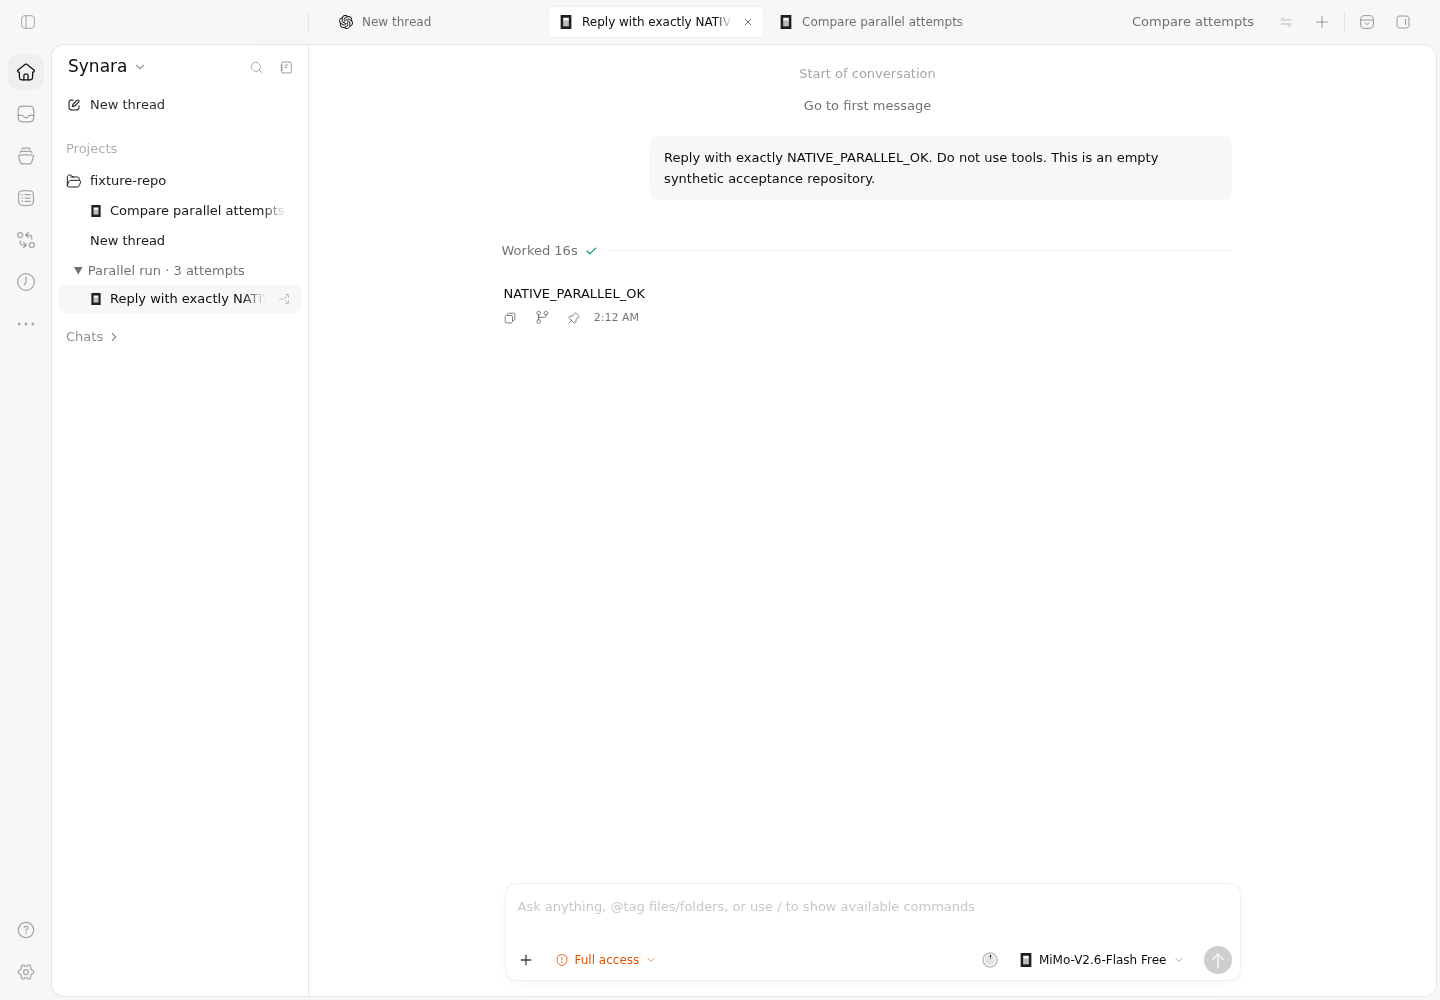
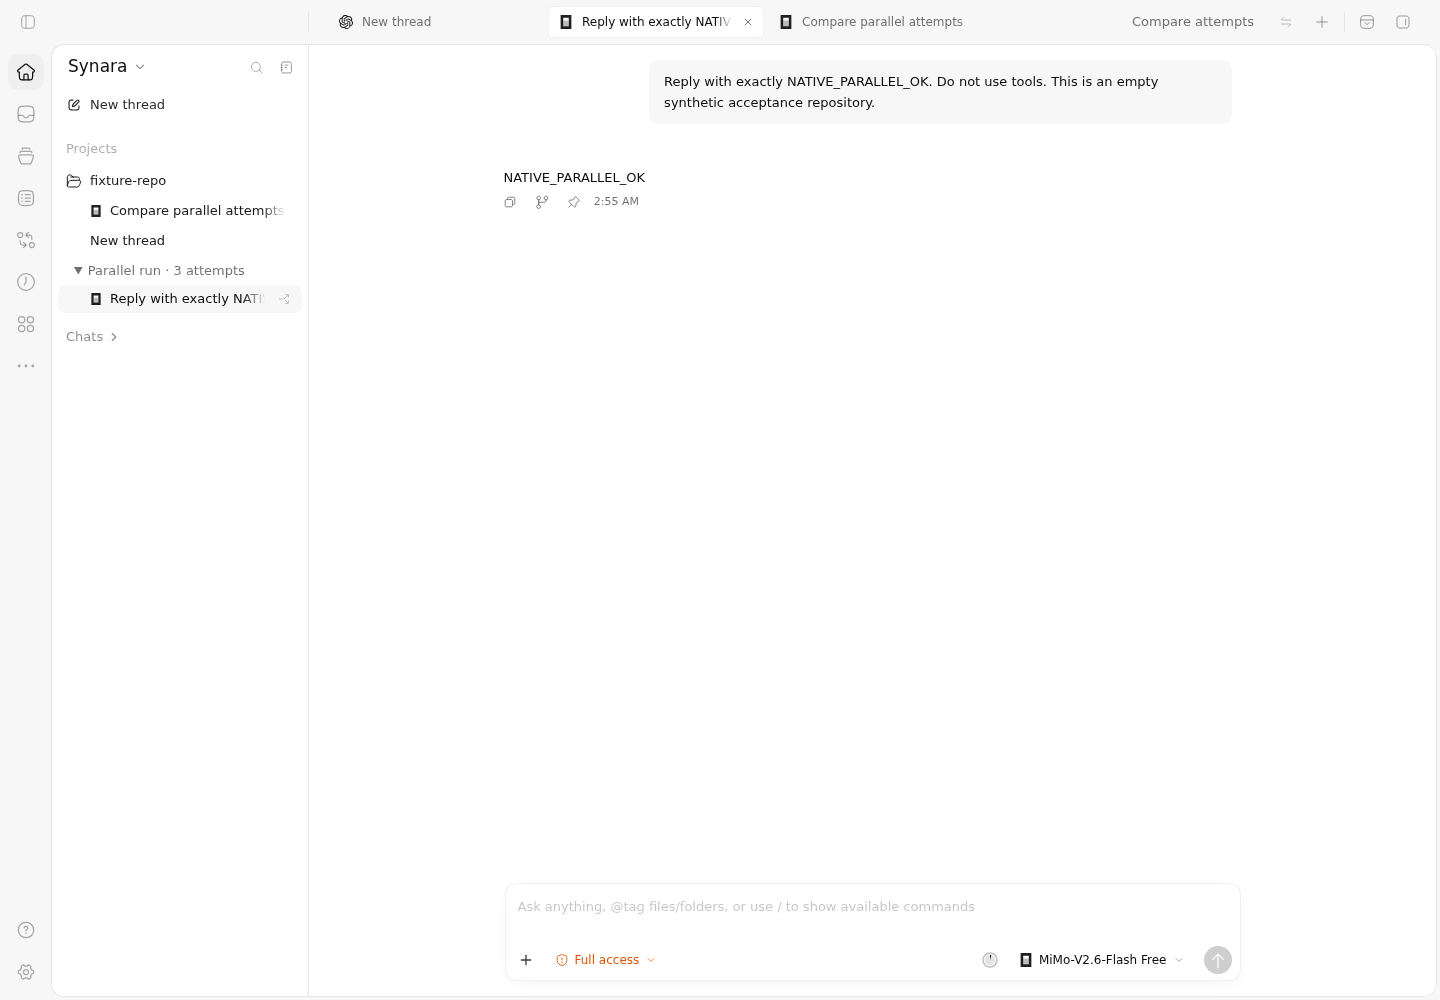
Record current-main real native parallel comparison and selection acceptance

diff --git a/docs/verification/parallel-run-native.md b/docs/verification/parallel-run-native.md
@@ -2,7 +2,7 @@
 
 Chromium drove the built application through its normal connection, using actual OpenCode 1.19.0 and `opencode/mimo-v2.6-flash-free`. No NativeApi, provider transport, Git, SQLite, or provider response was replaced. The portable runner creates an empty Git repository and isolated provider directories without inherited credentials.
 
-The final portable three-attempt run verified current composer selection, three distinct native session IDs, three real worktrees at one frozen base, three completed answers, a completed native comparison in a fourth thread/session, keeping one attempt, two archived siblings, and preservation of the source and all worktrees. Both real SQLite databases were read and exact transcript equality asserted for all three attempts. The reports pin the component source and actual rows. All four turns completed, with no tool approvals needed in this run. The PNGs were visually inspected.
+The final portable three-attempt run verified current composer selection, three distinct native session IDs, three real worktrees at one frozen base, three completed answers, a completed native comparison in a fourth thread/session, keeping one attempt, two archived siblings, and preservation of the source and all worktrees. Both real SQLite databases were read and exact transcript equality asserted for all three attempts after integrating main `52f06318fdb3c0b4b310a8d55d0083cba0bde1a0` and rebuilding the actual production web and CLI. The reports pin the component source and actual rows. All four turns completed. The comparison requested two read-only Git/listing batches in the empty fixture; both exact requests were reviewed and approved through the normal approval UI. The PNGs were visually inspected.
 
 The four `parallel-run-native-three-*.png` captures, `parallel-run-native-three-report.json`, and raw `parallel-run-native-three-check.txt` belong to this completed portable run. Earlier two-attempt captures/reports are separate and precede the final selection and transcript fixes. A second three-attempt run on the repaired production source also passed before the portable reproduction.
 
@@ -12,7 +12,7 @@ After building web and server, reproduce from the repository root:
 OPENCODE_LIVE_BINARY=/absolute/path/to/opencode CHROMIUM_EXECUTABLE_PATH=/absolute/path/to/chromium python docs/verification/parallel-run-native-check.py
 ```
 
-The runner requires Bun and Node.js 24 on PATH, launches a fresh isolated native CLI, and cleans it up. Free-model behavior/availability can change. Comparison uses the normal approval-required runtime. Only a short exact allowlist of read-only Git inspection requests against this synthetic repository may be approved once; every other request fails the check. The captured successful run requested no tool approvals. Completion is checked before Keep and then verified again in persisted SQLite.
+The runner requires Bun and Node.js 24 on PATH, launches a fresh isolated native CLI, and cleans it up. Free-model behavior/availability can change. Comparison uses the normal approval-required runtime. Only a bounded grammar and exact allowlist of read-only Git inspection requests against this synthetic repository may be approved once automatically. The current captured run records both reviewed requests in the report and raw output. Unknown requests remain unapproved: the runner reports an exact per-fixture approval-file path and fails at its finite completion deadline unless the operator explicitly reviews and authorizes that exact fixture-only read. The UI settled-answer action is checked before Keep; all four completed turns are then verified in persisted SQLite after shutdown (the production connection owns an exclusive lock while live).
 
 Three component browser checks now pass using the actual Zustand store. These supplemental component tests substitute orchestration boundary functions and are not claimed as native acceptance. Server tests include four on-disk SQLite/Git cases plus deterministic automation/provider regression cases. All seven package compilers passed serially before the upstream release-only integration; final web types and production web/CLI builds pass. Full hosted CI on the published head supplies final-head qualification.
 
